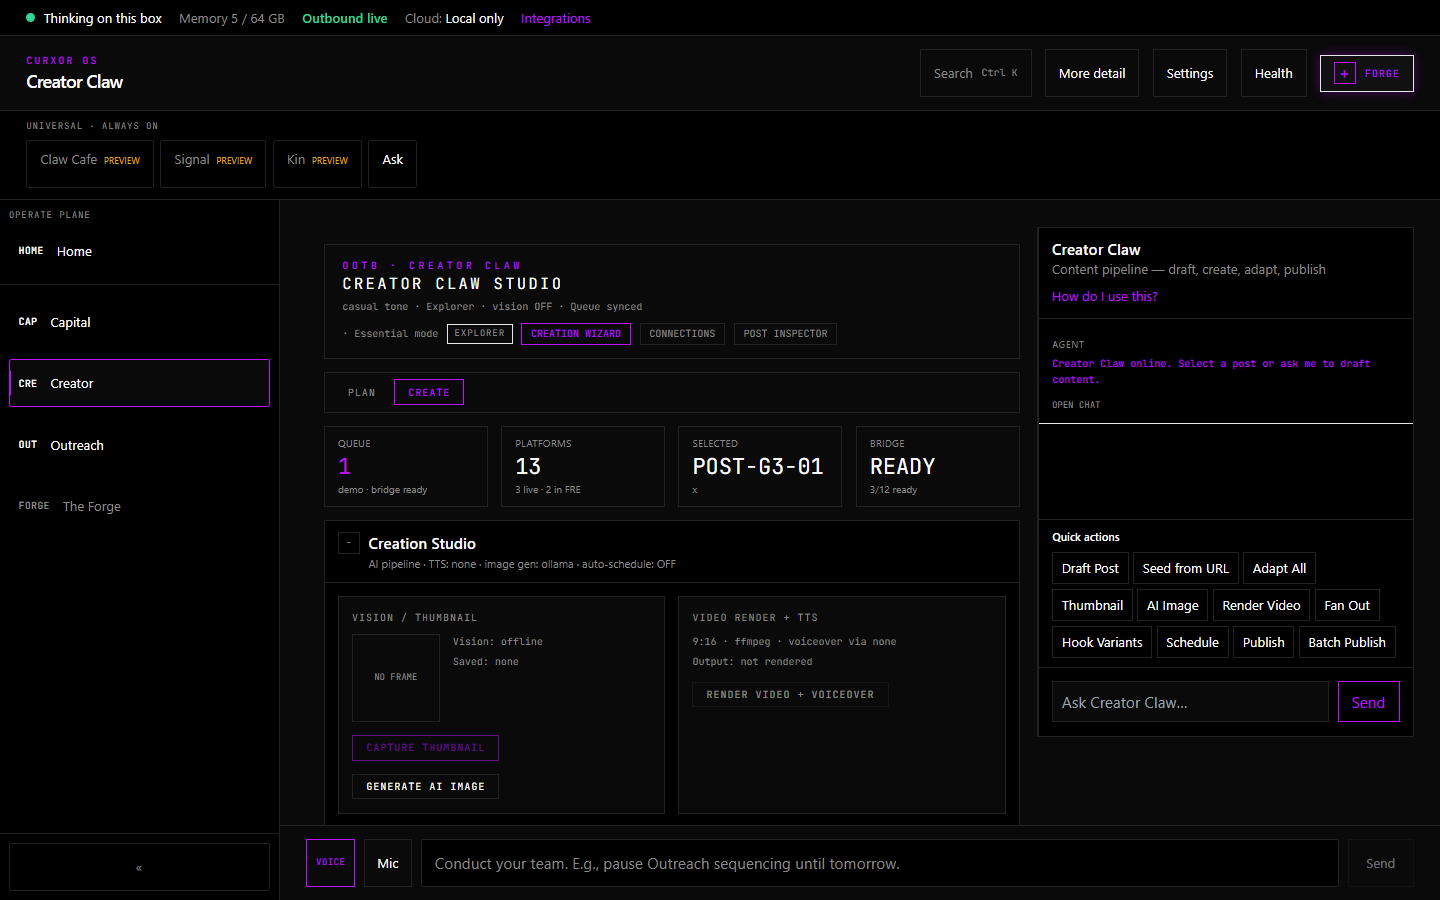
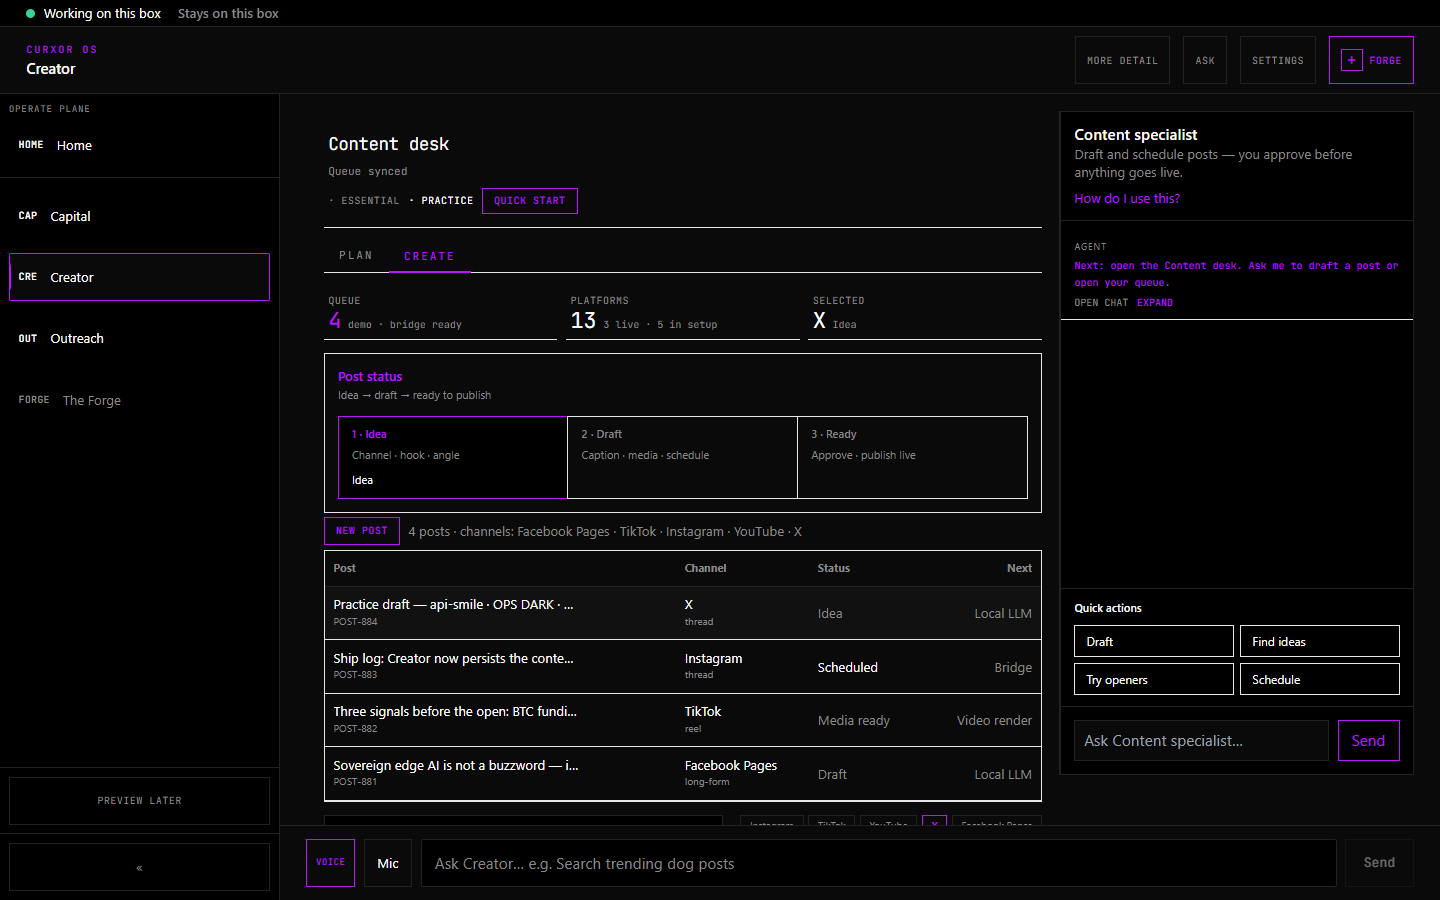
Refresh buyer stills to desk-crew chrome and clean GTM labels.
Re-capture G3/tour screenshots from the live box UI so hero and lane pages no longer show Claw Cafe / * Claw chrome, and align checklist naming with the desk-crew lock.

diff --git a/docs/GTM-CHECKLIST.md b/docs/GTM-CHECKLIST.md
@@ -6,8 +6,8 @@ MS-S1 MAX **unboxed 2026-06-28** — **G1/G2/G3 closed Jul 2026** · CurXor OS *
 
 - [x] Wave 0–2 — subscribe-first sitewide, ownership hero (*Your AI team. On a box you own.*), category spine in meta/deck, Act I/II story arc, operator composites, trust strip
 - [x] Landing page hero (*Your AI team. On a box you own.*) · category in `metaDescription`
-- [x] Spec sheet matrix (Compute / Network / Claw Engine)
-- [x] Ten Claw workspaces (9 verticals + The Forge) grouped by category + mobile carousel
+- [x] Spec sheet matrix (Compute / Network / OpenClaw Engine)
+- [x] Desk crew workspaces (9 verticals + The Forge) grouped by category + mobile carousel
 - [x] Day One hub section (Home / chat / stay local / Settings)
 - [x] Flight Command screenshot hero (R3F 3D scene retired — unused deps removed)
 - [x] Email capture (`/api/subscribe` + Resend)
@@ -20,9 +20,9 @@ MS-S1 MAX **unboxed 2026-06-28** — **G1/G2/G3 closed Jul 2026** · CurXor OS *
 - [x] Privacy policy (`/privacy`) + terms & trading disclaimer (`/terms`)
 - [x] Changelog (`/changelog`) tied to `../curxor-os/version.json` via sync
 - [x] Press kit (`/press`) — boilerplate + fact sheet
-- [x] Claw taglines synced from `app-agent-catalog.ts` when sibling repo present
+- [x] Crewmate taglines synced from `app-agent-catalog.ts` when sibling repo present
 - [x] Social profiles wired (footer, press, JSON-LD, llms.txt)
-- [x] Creator Claw demo (`08-creator-claw.png`) + creator flow gallery
+- [x] Creator demo (`08-creator-claw.png`) + creator flow gallery
 - [x] Hero film comp plates (`public/demo/hero-film/*@2x.png`) — sync from `../curxor-os/docs/gtm/hero-film-figma/exports/`
 - [x] Trust strip (pre-order, ship window, support, terms link)
 - [x] Price-includes section + four-year TCO table
@@ -30,8 +30,8 @@ MS-S1 MAX **unboxed 2026-06-28** — **G1/G2/G3 closed Jul 2026** · CurXor OS *
 - [x] Compare hub + five competitor pages under `/compare/*`
 - [x] Homepage reorder (demo → personas → compare first)
 - [x] `/creator` landing page + Flight Command demo screenshots
-- [x] `/capital` + `/outreach` Claw landing pages
-- [x] `/signal` — Signal Claw · The Neural Link horizon visual + preview honesty ([signal-page.ts](../src/lib/signal-page.ts))
+- [x] `/capital` + `/outreach` desk landing pages
+- [x] `/signal` — Signal · The Neural Link horizon visual + preview honesty ([signal-page.ts](../src/lib/signal-page.ts))
 - [x] **Hero film v5.1 script + comp plates** (G3 · `46f9257`) — [HERO-FILM-HANDOFF.md](HERO-FILM-HANDOFF.md) · `public/demo/hero-film/` · Figma proto linked
 - [x] **Hero film UI** — `/signal` category section + film tabs · `/press` downloads
 - [x] **Hero film MP4** — badge vision (~61s) + Act I product (~90s) on /signal · investor proof on /press
@@ -57,20 +57,20 @@ MS-S1 MAX **unboxed 2026-06-28** — **G1/G2/G3 closed Jul 2026** · CurXor OS *
 | G13 | `/for-builders` page (Build Plane) | G3+ · not conversion-critical |
 | HERO-v2 | Live Layer A badge shoot + full 90s A+B+C merge | Post-validation film chat |
 | Product photography | MS-S1 batch hero | Hardware shoot gate |
-| Claw walkthrough re-record | Replace old webm on `/capital` `/creator` | Post-G3 box session |
+| Desk walkthrough re-record | Replace old webm on `/capital` `/creator` | Post-G3 box session |
 
 ## Build next (this repo)
 
-- [x] Settings / user freedom copy (Claws toggle, optional frontier LLM, themes) — `src/lib/config.ts`
+- [x] Settings / user freedom copy (desk crew toggle, optional frontier LLM, themes) — `src/lib/config.ts`
 - [x] Pricing / UMA tiers page (`/pricing`) — synced from `local-llm-catalog.ts`
-- [x] Demo screenshots in `public/demo/` (Home through Creator Claw + creator flows)
-- [x] Cafe captures in `public/demo/cafe/` (Wave A — dev Flight Command UI; not MS-S1 verified)
+- [x] Demo screenshots in `public/demo/` (Home through Creator + creator flows)
+- [x] Cafe captures in `public/demo/cafe/` (Crew Cafe — re-shot with desk-crew chrome when box preset allows)
 - [x] Changelog auto-append on version bump (`sync:appliance` + `data/changelog-entries.json`)
 - [x] Pricing compute ladder on `/pricing`
 - [x] MIKY / agent NAS FAQ + comparison row
 - [x] v0.2.0 marketing pass — messaging FAQ, architecture, agnostic wearables copy
 - [ ] Product photography in hero when MS-S1 batch is photographed
-- [ ] Claw walkthrough videos (replace screenshot heroes on `/capital` and `/creator` when re-recorded from Flight Command)
+- [ ] Desk walkthrough videos (replace screenshot heroes on `/capital` and `/creator` when re-recorded from Flight Command)
 - [ ] Customer testimonials / press logos when available
 
 ## Roadmap (parked — no action)
@@ -126,5 +126,5 @@ See [SYNC.md](SYNC.md) and [APPLIANCE-AUDIT.md](APPLIANCE-AUDIT.md).
 |--------|-----|
 | `docs/guides/02-architecture.md` | Architecture page source |
 | `docs/guides/10-ms-s1-max-hardware-bios.md` | Hardware FAQ |
-| `docs/guides/12-digital-action-layer.md` | Capital Claw + privacy story |
+| `docs/guides/12-digital-action-layer.md` | Capital desk + privacy story |
 | `docs/quick-reference/operator-card.md` | Support download |

diff --git a/docs/FEATURE-FUNCTION.md b/docs/FEATURE-FUNCTION.md
@@ -13,8 +13,8 @@ The storefront is the **go-to-market surface** — not the appliance. It pre-sel
 | In scope | Out of scope |
 |----------|--------------|
 | Landing, positioning, pre-order, investor press kit | Inference, mesh, engine runtime |
-| Email list (Resend) · prod UAT green Jul 8 | FRE, claw provisioning |
-| 10 Claw marketing cards + The Forge | Live trading / posting at scale |
+| Email list (Resend) · prod UAT green Jul 8 | FRE, crewmate provisioning |
+| Desk crew marketing cards + The Forge | Live trading / posting at scale |
 | G3 demo pack + category films on `/signal` | OTA fleet URL, captive portal install |
 | Appliance version badges (synced) | External operator UAT (G4) |
 
@@ -28,11 +28,11 @@ The storefront is the **go-to-market surface** — not the appliance. It pre-sel
 | **3D scene** | R3F hardware scene (`HardwareScene.tsx`) |
 | **Symphony** | `#symphony` — conductor metaphor (`SymphonySection.tsx`) |
 | **G3 desk gallery** | MS-S1 captures in `public/demo/g3/` — homepage demo section |
-| **Spec matrix** | Compute / Network / Claw Engine columns |
-| **App ecosystem** | 10 Claws from `appliance-sync.ts` · mobile carousel |
+| **Spec matrix** | Compute / Network / OpenClaw Engine columns |
+| **App ecosystem** | Desk crew from `appliance-sync.ts` · mobile carousel |
 | **Category films** | `/signal#category-film` — vision ~61s default + product ~90s tab |
 | **Trust pages** | `/privacy`, `/terms`, `/architecture`, `/changelog`, `/press`, `/pricing` |
-| **Claw landings** | `/capital`, `/creator`, `/outreach`, `/signal` (Neural Link horizon) |
+| **Desk landings** | `/capital`, `/creator`, `/outreach`, `/signal` (Neural Link horizon) |
 | **Personas** | `/for/traders`, `/for/creators`, `/for/agencies` |
 | **Compare hub** | `/compare/*` — five competitor pages |
 | **Unified comms copy** | FAQ + spec matrix — Telegram, Slack, WhatsApp, iMessage |
@@ -45,22 +45,22 @@ The storefront is the **go-to-market surface** — not the appliance. It pre-sel
 
 ---
 
-## Synced Claw catalog
+## Synced desk crew catalog
 
 Source: `../curxor-os/pillar-4-dashboard/lib/ootb-apps.ts` via `npm run sync:appliance`
 
 | Storefront slug | Name | Appliance route |
 |-----------------|------|-----------------|
-| `claw-forge` | The Forge | `/claw-forge` |
+| `claw-forge` | The Forge | `/forge` |
 | `capital-claw` | Capital | `/my-capital` |
 | `creator-claw` | Creator | `/my-content` |
 | `outreach-claw` | Outreach | `/my-work` |
-| `arbitrage-claw` | Arbitrage Claw | `/my-shop` |
-| `signal-claw` | Signal Claw | `/optimus` |
-| `swarm-claw` | Swarm Claw | `/robotaxi` |
+| `arbitrage-claw` | Arbitrage | `/my-shop` |
+| `signal-claw` | Signal | `/optimus` |
+| `swarm-claw` | Swarm | `/robotaxi` |
 | `engage-claw` | Crew Cafe | `/crew-cafe` |
-| `vital-claw` | Vital Claw | `/my-vital` |
-| `kin-claw` | Kin Claw | `/my-family` |
+| `vital-claw` | Vital | `/my-vital` |
+| `kin-claw` | Kin | `/my-family` |
 
 ---
 
@@ -69,7 +69,7 @@ Source: `../curxor-os/pillar-4-dashboard/lib/ootb-apps.ts` via `npm run sync:app
 | Item | Status |
 |------|--------|
 | MS-S1 batch product photography | G4 — hero uses composites + G3 desk strips |
-| Claw walkthrough re-record on `/capital` `/creator` | Post-G3 box session |
+| Desk walkthrough re-record on `/capital` `/creator` | Post-G3 box session |
 | Loop homepage section (G11) | Post-fundraise |
 | Trust loop graphic (G12) | Post-fundraise |
 | `/for-builders` (G13) | Post-fundraise |
